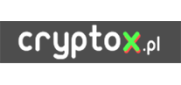
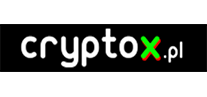
analytics events (#22)
* analytics events

* fix exchange logos

* clear logo

diff --git a/docroot/user/themes/obyte/scss/template/custom/_main-page.scss b/docroot/user/themes/obyte/scss/template/custom/_main-page.scss
@@ -63,9 +63,11 @@
           line-height: 33px;
         }
       }
+      /*
       .scene-block {
         margin-top: -50px;
       }
+      */
       .reply-block {
         align-items: center;
         cursor: pointer;
